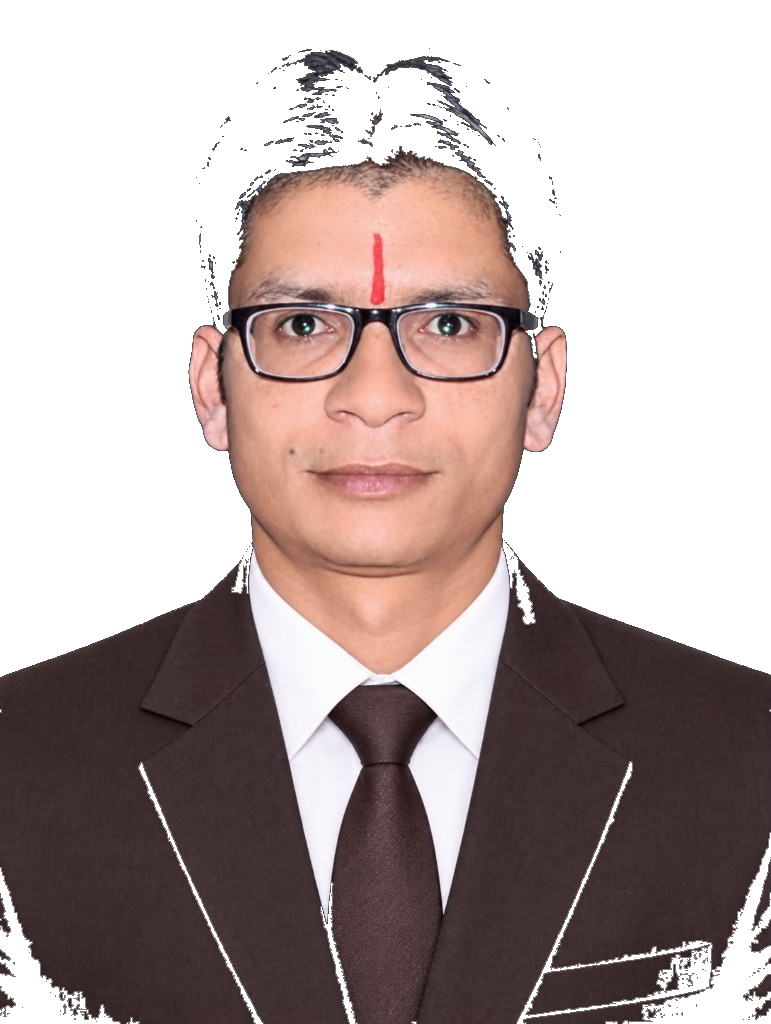
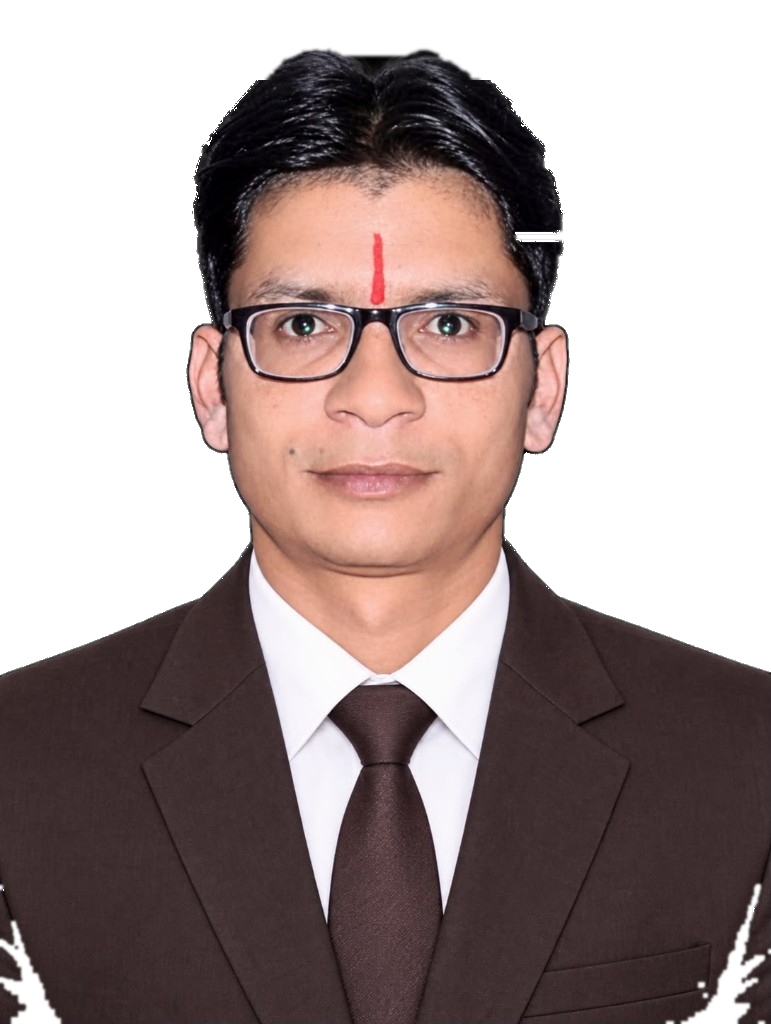
Recut the editor-rail hair and put cliffdemo3 fronts on the mixed newswire.
Black flood-fill had eaten the hair; the front page now uses the same category mix as other publishers instead of the NMS bundle.

diff --git a/src/lib/nms/cliffDemo3Publisher.ts b/src/lib/nms/cliffDemo3Publisher.ts
@@ -61,9 +61,9 @@ export const pagePlanRequestsNmsBundle = (
   isNmsBundleCategory(plannedCategory);
 
 /**
- * cliffdemo3 front pages always take the NMS bundle. Inside pages take it
- * only when Settings selected "NMS Bundle". Every other publisher stays on
- * the existing mix / newswire category path.
+ * cliffdemo3 inside pages take the NMS bundle only when Settings selected
+ * "NMS Bundle". Front pages use the same mixed-category newswire path as
+ * every other publisher.
  */
 export const shouldUseNmsBundleFeed = (input: {
   isCliffDemo3: boolean;
@@ -72,7 +72,7 @@ export const shouldUseNmsBundleFeed = (input: {
   plannedCategory?: string;
 }) => {
   if (!input.isCliffDemo3) return false;
-  if (input.isFrontPage) return true;
+  if (input.isFrontPage) return false;
   return pagePlanRequestsNmsBundle(input.plannedCategories, input.plannedCategory);
 };
 

diff --git a/src/lib/nms/cliffDemo3PublisherTests.ts b/src/lib/nms/cliffDemo3PublisherTests.ts
@@ -48,8 +48,16 @@ assert(!pagePlanRequestsNmsBundle(["National"], ""), "a National page is not an 
 assert(!pagePlanRequestsNmsBundle([], ""), "an empty page plan is not an NMS page");
 
 assert(
-  shouldUseNmsBundleFeed({ isCliffDemo3: true, isFrontPage: true, plannedCategories: [] }),
-  "cliffdemo3 front page uses NMS even when Settings still has mix/empty chips",
+  !shouldUseNmsBundleFeed({ isCliffDemo3: true, isFrontPage: true, plannedCategories: [] }),
+  "cliffdemo3 front page uses the mixed category API like other publishers",
+);
+assert(
+  !shouldUseNmsBundleFeed({
+    isCliffDemo3: true,
+    isFrontPage: true,
+    plannedCategories: ["NMS Bundle"],
+  }),
+  "cliffdemo3 front page stays on the mix even if Settings still lists NMS",
 );
 assert(
   !shouldUseNmsBundleFeed({ isCliffDemo3: false, isFrontPage: true, plannedCategories: [] }),

diff --git a/src/components/editor/EditorCanvas.tsx b/src/components/editor/EditorCanvas.tsx
@@ -4716,8 +4716,8 @@ export function EditorCanvas() {
               // come from, and importNewswireStories would then throw "Not
               // enough Hindi articles" outright instead of finishing the
               // page with a few cross-category live stories mixed in.
-              // cliffdemo3 NMS pages stay on the stored bundle only — mixing
-              // National/Sports/etc. would undo the "NMS Bundle only" front.
+              // cliffdemo3 NMS inside pages stay on the stored bundle only — mixing
+              // National/Sports/etc. would undo an explicit "NMS Bundle" Settings pick.
               if (freshLive.length < remaining && !useNmsBundle) {
                 const stillNeeded = remaining - freshLive.length;
                 const mixedIn = await fetchLiveArticlesFromOtherCategories(
